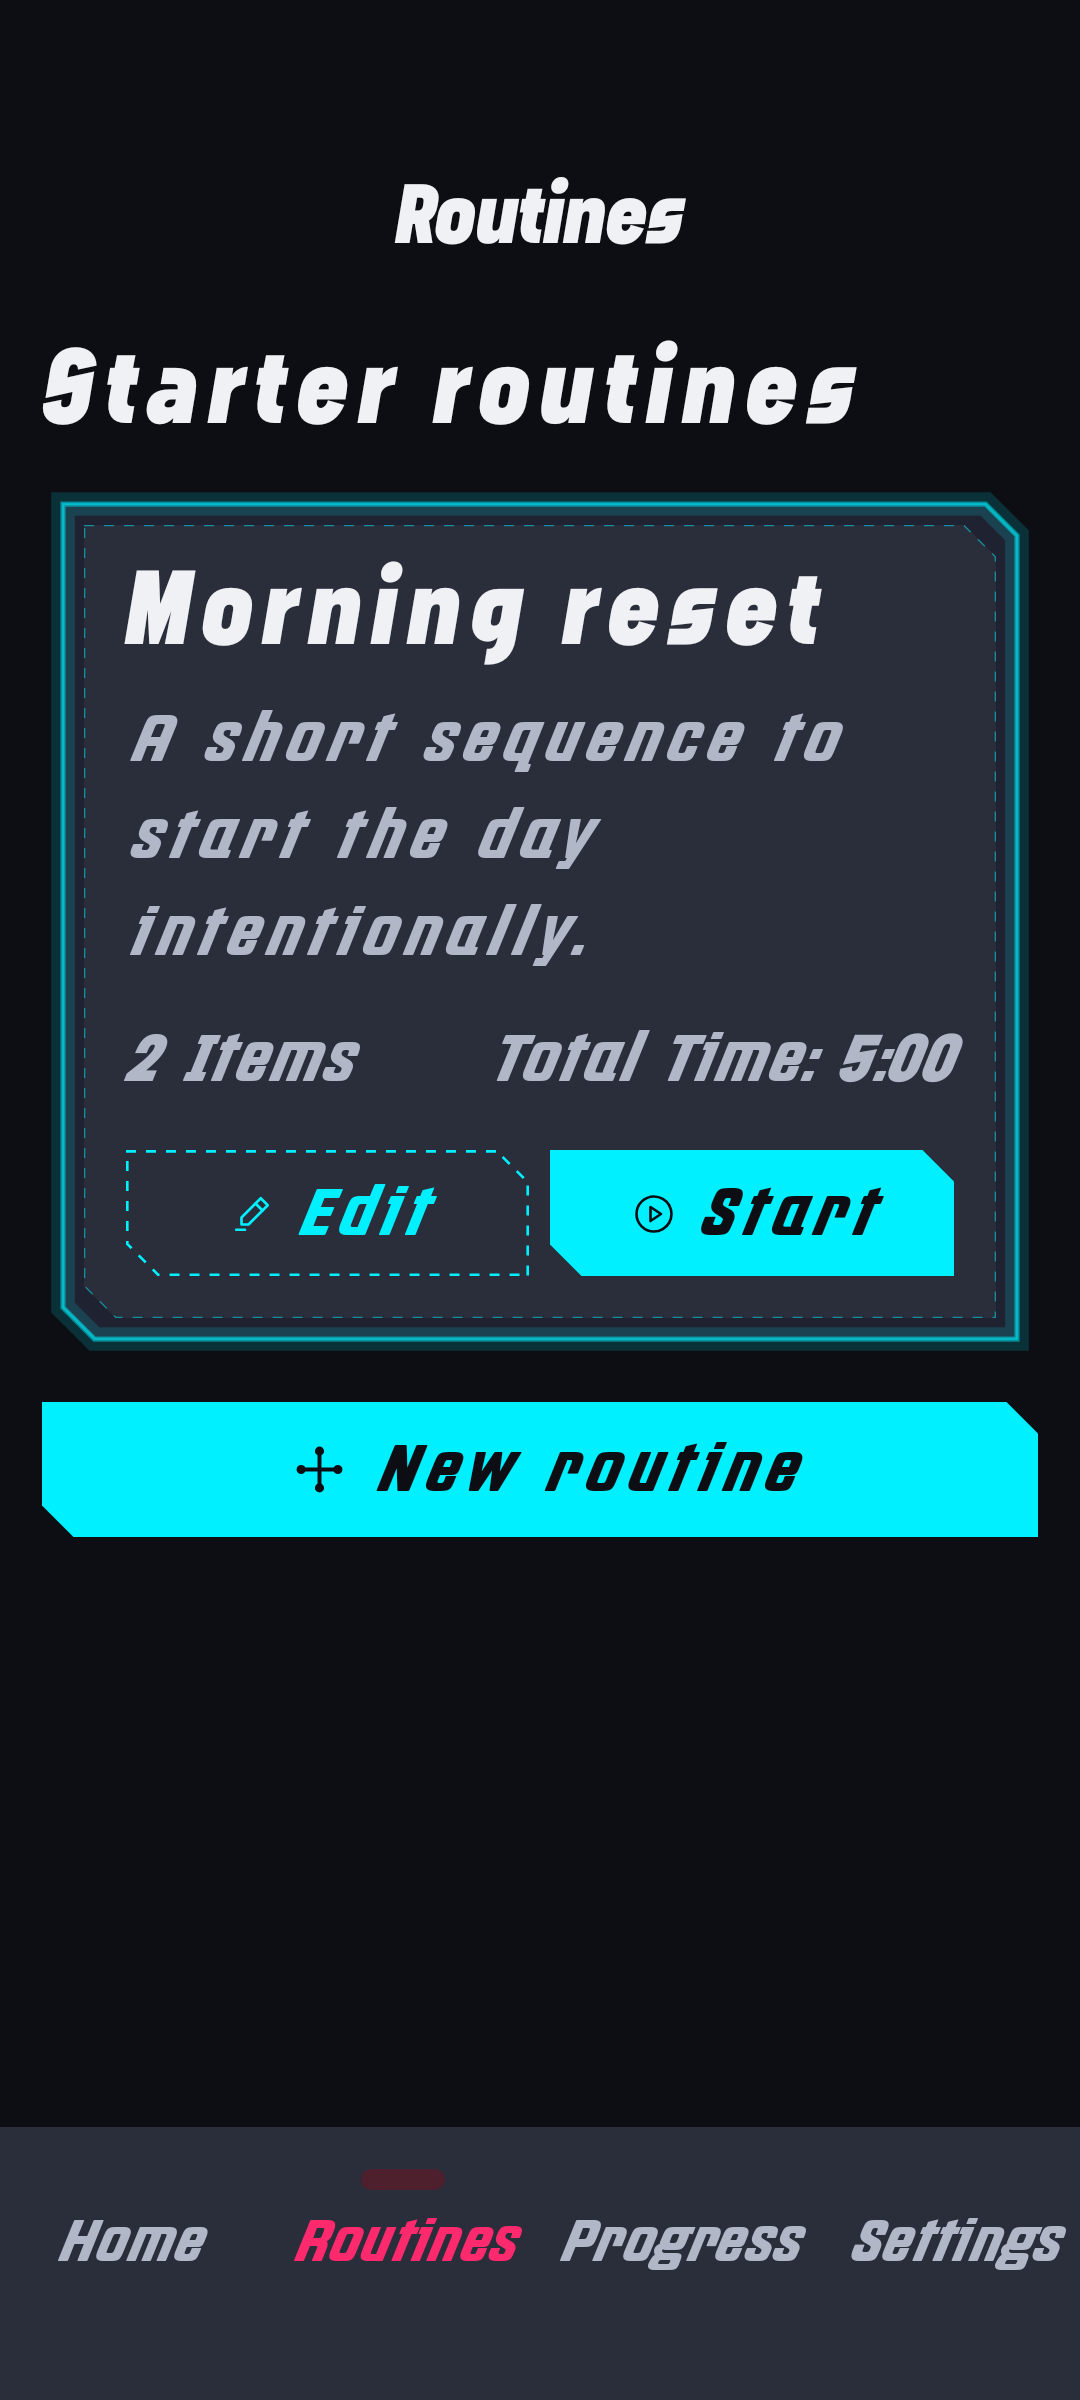
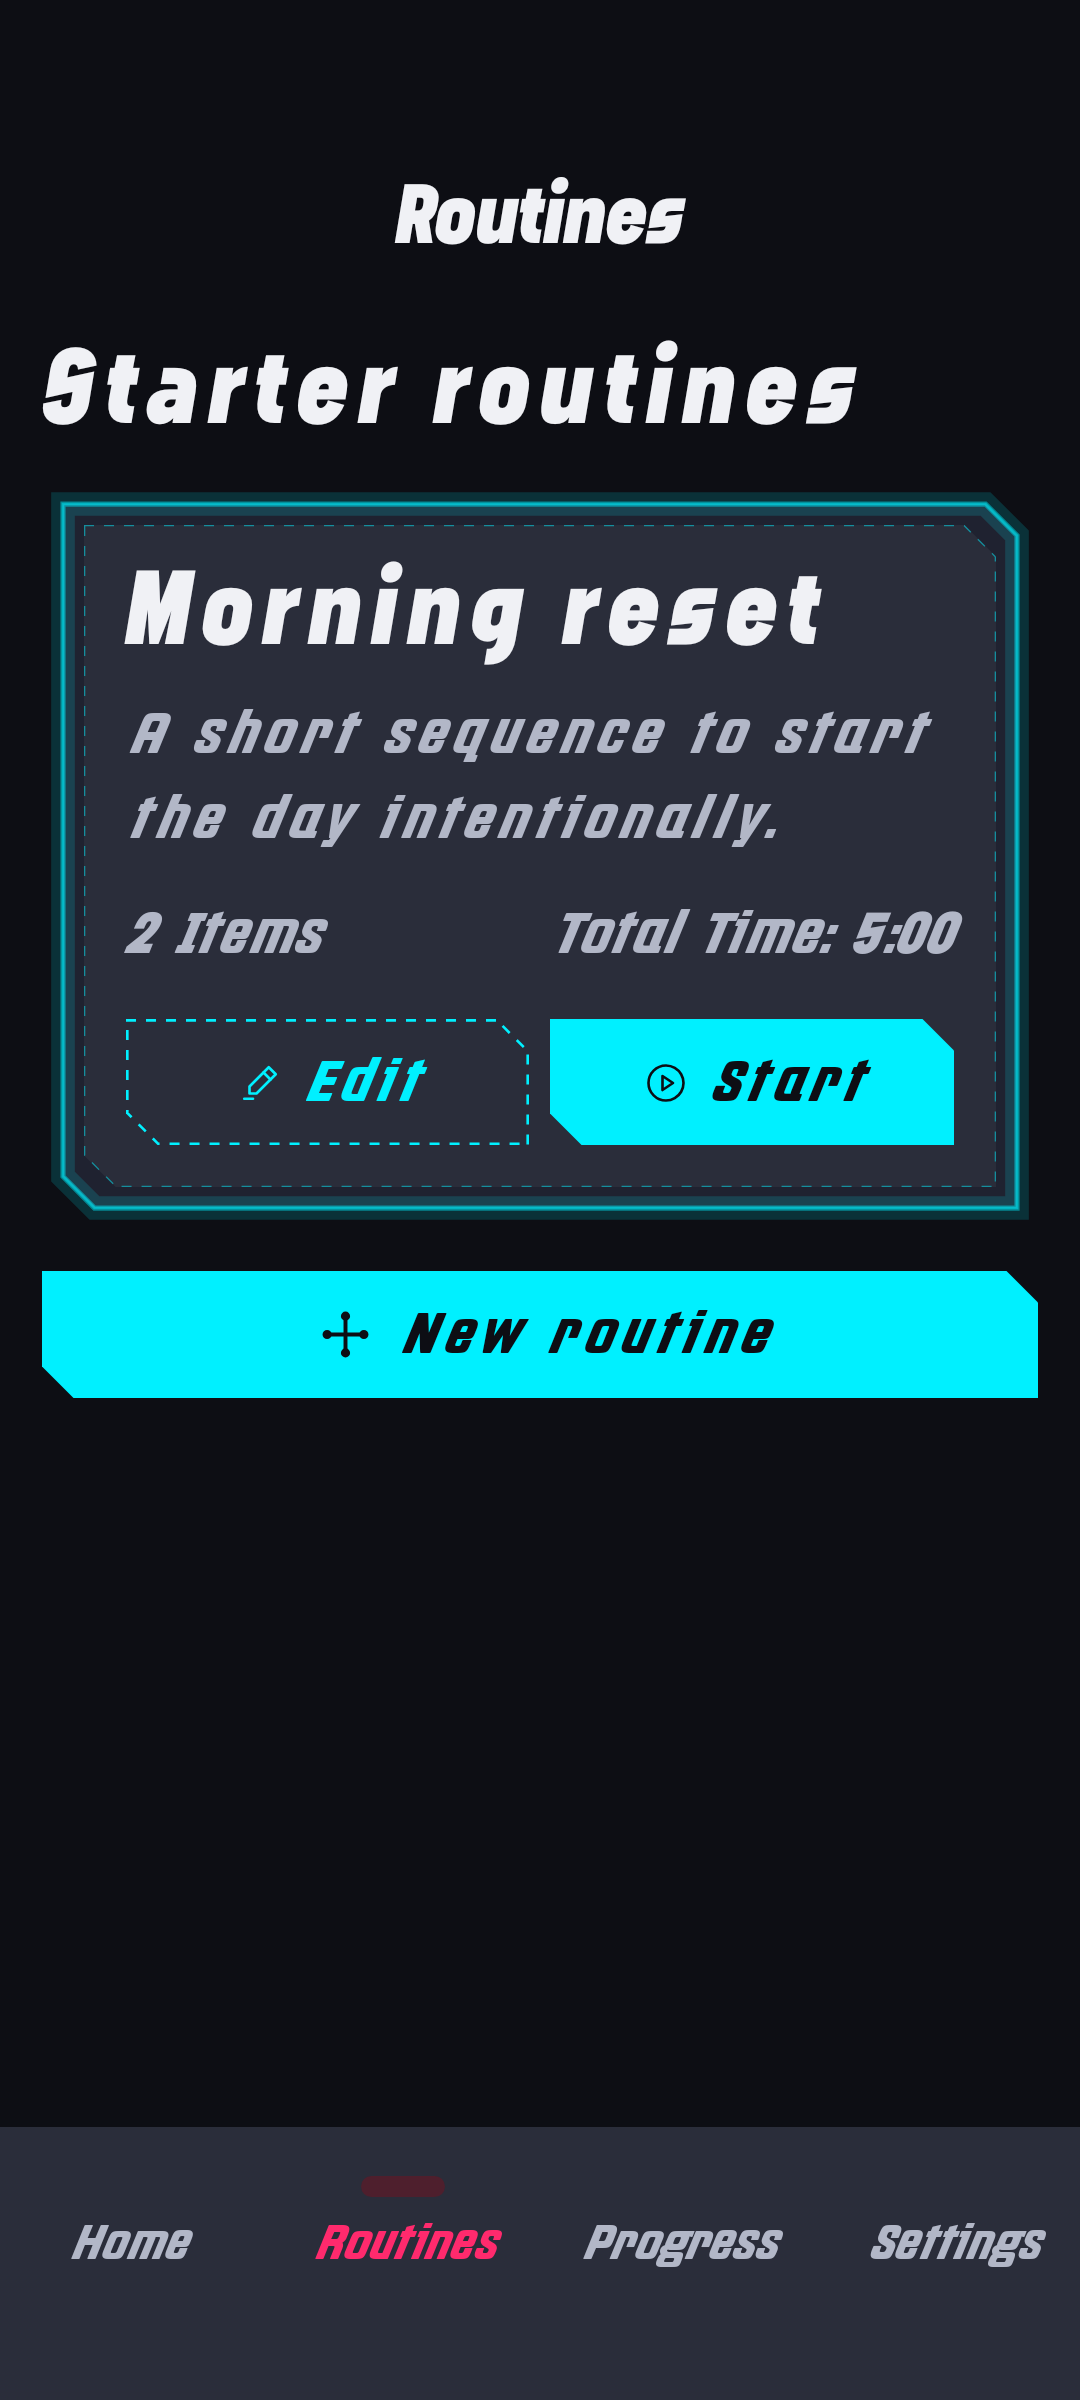
Refresh approved Routines screenshot and record device verification

diff --git a/docs/testing/evidence/2026-10-29/README.md b/docs/testing/evidence/2026-10-29/README.md
@@ -1,0 +1,31 @@
+# Physical-device verification, 2026-10-29
+
+Final checks cover the feature-ownership refactor, corrected device tests, Builder headers, and the approved Routines screenshot reference.
+
+| Check | Result |
+| --- | --- |
+| Debug JVM tests | 153 passed, 0 failed |
+| Pixel 7 instrumentation | 21 passed, 0 failed; [JUnit results](device-tests.xml) |
+| Independent screenshot repeat | 1 passed, 0 failed; [JUnit results](screenshot-repeat.xml) |
+| Android lint | 0 errors, 111 warnings, 7 hints |
+| Feature boundaries | 67 Kotlin files, 16 owners, no cycles |
+| Diff whitespace | Passed |
+
+Commands: `scripts\gradle-agent.cmd :app:testDebugUnitTest`, `scripts\gradle-agent.cmd :app:connectedDeviceTestAndroidTest`, `scripts\gradle-agent.cmd :app:connectedDeviceTestAndroidTest -Pandroid.testInstrumentationRunnerArguments.class=com.taskchain.ScreenshotTest`, `scripts\gradle-agent.cmd :app:lintDebug`, `python scripts/check-feature-boundaries.py`, and `git diff --check`.
+
+Gradle ran on JDK 17.0.12 using the checked-in wrapper. Device testing used only `com.taskchain.testapp` on a physical Pixel 7, Android 17, 1080x2400, 420 dpi, font scale 1.15, Cyberpunk provider in dark mode. The production app package was not cleared or uninstalled. Sound/haptic audibility, reboot durability, and process-death recovery were not manually tested in this change.
+
+## Builder appearance
+
+Collapsed task headers omit the down-chevron. Pressing the header still expands the task. Expanded headers have a filled up-chevron with a 48 dp interaction target. Existing dragging, title editing, and validation-reveal behavior remain covered by instrumentation.
+
+| State | Before | After |
+| --- | --- | --- |
+| Collapsed | [Screenshot](builder-before-collapsed.png) | [Screenshot](builder-collapsed.png) |
+| Expanded | [Screenshot](builder-before-expanded.png) | [Screenshot](builder-expanded.png) |
+
+These are actual scrolled device captures, not golden-image assertions for Builder. The test suite verifies collapsed and expanded dragging, the collapse action, and validation errors.
+
+## Accepted Routines reference
+
+The user approved the current Routines rendering. The [updated reference](../../../../app/src/androidTest/screenshots/routines_tab.png) replaces the historical image at the recorded font scale of 1.15. The historical difference is accepted as a font-scale change; the cause was assumed by user instruction rather than independently isolated. Comparison tolerance was not increased. Verification passed in the full device suite and again in a clean screenshot-only run.

diff --git a/docs/testing/device-testing.md b/docs/testing/device-testing.md
@@ -15,7 +15,7 @@ Use a Pixel 7 as the reference device.
 
 - Turn on USB debugging.
 - Set animation scales to 0 for stable assertions.
-- Set a fixed locale, theme, font scale 1.0 and display size. Record them with each run.
+- Set a fixed locale, theme, font scale and display size. Use font scale 1.0 unless a reference below records a different value. Record them with each run.
 - Use the SDK `adb.exe` by absolute path. See `docs/agents/android-sdk-access.md`.
 - Run `adb devices` and note the serial before each run.
 
@@ -24,3 +24,11 @@ Use a Pixel 7 as the reference device.
 - Run navigation tests, screenshot tests and the run order from [automated-physical-device-tests.md](automated-physical-device-tests.md).
 - Run person-driven checks from [human-driven-tests.md](human-driven-tests.md).
 - Run accessibility checks from [accessibility-testing.md](accessibility-testing.md).
+
+## Accepted screenshot references
+
+| Reference | Device | Android | Size / density | Font scale | Appearance |
+| --- | --- | --- | --- | --- | --- |
+| `routines_tab.png` | Pixel 7 | 17 | 1080 × 2400 / 420 dpi | 1.15 | Cyberpunk provider, dark |
+
+The user approved the current Routines rendering on 2026-10-29. It replaces the historical reference; the previous difference is accepted as a font-scale change. Verify this reference at its recorded scale, without increasing the comparison tolerance.
